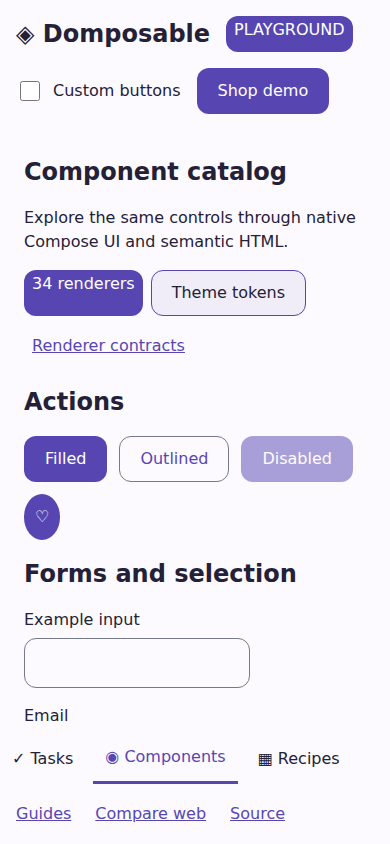
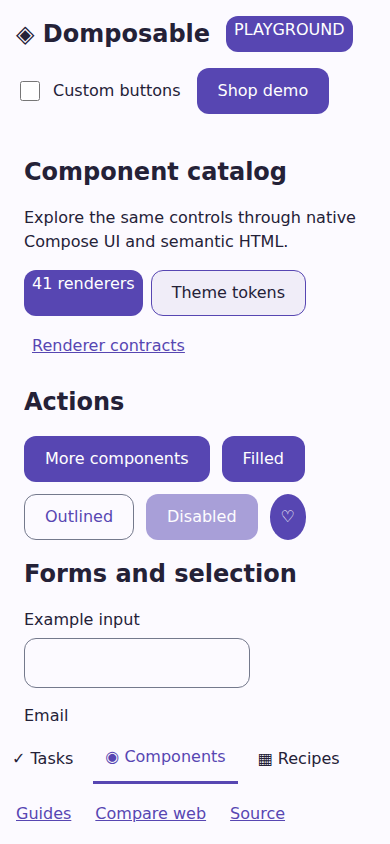
Review platform goldens and preserve native control labels

Changed region(s): [[0.0615, 0.4929, 0.9231, 0.6469], [0.0923, 0.3081, 0.1231, 0.3389]]

diff --git a/domposable-design-material/src/composeUiMain/kotlin/io/github/samuolis/domposable/material/NativeMaterial.kt b/domposable-design-material/src/composeUiMain/kotlin/io/github/samuolis/domposable/material/NativeMaterial.kt
@@ -67,11 +67,11 @@ import androidx.compose.ui.layout.ContentScale
 import androidx.compose.ui.platform.LocalUriHandler
 import androidx.compose.ui.semantics.LiveRegionMode
 import androidx.compose.ui.semantics.Role
+import androidx.compose.ui.semantics.clearAndSetSemantics
 import androidx.compose.ui.semantics.contentDescription
 import androidx.compose.ui.semantics.dialog
 import androidx.compose.ui.semantics.error
 import androidx.compose.ui.semantics.heading
-import androidx.compose.ui.semantics.hideFromAccessibility
 import androidx.compose.ui.semantics.liveRegion
 import androidx.compose.ui.semantics.onClick
 import androidx.compose.ui.semantics.role
@@ -464,14 +464,8 @@ actual fun rememberDomposableMaterialComponents(): DomposableComponents =
             icon = { props, modifier, _ ->
                 Text(
                     props.symbol,
-                    modifier.toComposeModifier().semantics {
-                        if (props.description !=
-                            null
-                        ) {
-                            contentDescription = props.description!!
-                        } else {
-                            hideFromAccessibility()
-                        }
+                    modifier.toComposeModifier().clearAndSetSemantics {
+                        props.description?.let { contentDescription = it }
                     },
                 )
             },

diff --git a/demo/src/jvmTest/kotlin/io/github/samuolis/domposable/demo/ExtendedComponentsTest.kt b/demo/src/jvmTest/kotlin/io/github/samuolis/domposable/demo/ExtendedComponentsTest.kt
@@ -1,5 +1,8 @@
 package io.github.samuolis.domposable.demo
 
+import androidx.compose.ui.semantics.SemanticsProperties
+import androidx.compose.ui.test.SemanticsMatcher
+import androidx.compose.ui.test.assert
 import androidx.compose.ui.test.assertIsNotEnabled
 import androidx.compose.ui.test.assertIsSelected
 import androidx.compose.ui.test.junit4.v2.createComposeRule
@@ -20,6 +23,12 @@ class ExtendedComponentsTest {
         compose.onNodeWithText("Express").performClick()
         compose.onNodeWithText("Office").performClick().assertIsSelected()
         compose.onNodeWithText("Deliver EXPRESS to Office").assertExists()
+        compose.onNodeWithContentDescription("Save preferences").assert(
+            SemanticsMatcher.keyNotDefined(SemanticsProperties.Text),
+        )
+        compose.onNodeWithContentDescription("About preferences").assert(
+            SemanticsMatcher.keyNotDefined(SemanticsProperties.Text),
+        )
         compose.onNodeWithContentDescription("Save preferences").performClick()
         compose.onNodeWithText("Preferences saved").assertExists()
         compose.onNodeWithText("Reset").performClick()

diff --git a/tests/browser/components.spec.ts b/tests/browser/components.spec.ts
@@ -36,6 +36,14 @@ test('range endpoints stay ordered and keyboard interaction updates the feature'
   await expect(maximum).toHaveValue('30');
   await expect(maximum).toHaveAttribute('aria-valuemin', '30');
   await expect(minimum).toHaveAttribute('aria-valuemax', '30');
+  // Repeated attempts to cross must stay clamped even when the app state is unchanged.
+  await maximum.press('Home');
+  await expect(maximum).toHaveValue('30');
+  await minimum.focus();
+  await minimum.press('End');
+  await expect(minimum).toHaveValue('30');
+  await minimum.press('End');
+  await expect(minimum).toHaveValue('30');
 });
 
 test('tooltip describes its control, opens with keyboard focus and dismisses with Escape', async ({ page }) => {

diff --git a/scripts/ci/export_examples.py b/scripts/ci/export_examples.py
@@ -12,6 +12,7 @@ for name, inputs in {
     'shop-web': [('dom/shop-phone.png','HTML · phone'),('dom/shop-wide.png','HTML · desktop')],
     'shop-native': [('android/shop.png','Android'),('ios/shop.png','iOS · tablet')],
     'components': [('android/catalog.png','Android components'),('dom/catalog-wide.png','Semantic HTML components')],
+    'selection-controls': [('android/extended-components.png','Android · selection and feedback'),('dom/extended-components.png','Semantic HTML · same feature')],
 }.items():
     images = [png((source/path).read_bytes()) for path,_ in inputs]
     (target/f'{name}.png').write_bytes(panel(images,[label for _,label in inputs]))

diff --git a/docs/components.md b/docs/components.md
@@ -51,6 +51,10 @@ DomposableRangeSlider(
 
 Select values must be unique and include the current value. Use an explicit placeholder option when no choice has been made. Native presents a Material dropdown; HTML emits a `<select>` with disabled options and preserves the app's controlled value. SegmentedButtons provides one selected choice with native selection semantics or an HTML radio group. A range has ordered, finite endpoints inside its bounds; `steps = 9` divides 0–100 into ten intervals. HTML displays two labelled browser sliders; native uses Material's two-thumb slider. Both thumbs remain independently accessible.
 
+![The same delivery preferences feature on Android and semantic HTML](assets/examples/selection-controls.png)
+
+Both previews run `ExtendedComponentCatalog()` from `commonMain`. The provider changes the controls' structure; the selected delivery, address, price range and callbacks come from the same feature. The [HTML/Wasm comparison](compare.md) lets you change the actual viewport width.
+
 ## Actions and help
 
 ```kotlin
@@ -64,6 +68,8 @@ DomposableLink("Help", "https://example.com/help")
 ```
 
 Tooltips provide supplemental descriptions. The control still needs its own accessible label. HTML shows help on hover or keyboard focus and supports Escape; native delegates hover/long-press behavior to Material. Link emits a browser anchor or opens the native URI handler. Navigation items with `href` preserve browser new-tab behavior while ordinary clicks call `onSelect`.
+
+Use `description = null` for a decorative Icon inside a labelled control. IconButton and FloatingActionButton take the control's accessible `label`; the decorative glyph does not become part of that name.
 
 ## Content and collections
 
@@ -141,4 +147,4 @@ The feature owns dismissal and application effects. HTML uses a modal dialog wit
 
 Every component has direct arguments and a `Props` overload. Keep props for renderer customization or reusable configuration; ordinary feature code can use the calls above. See [design-system customization](design-systems.md), [adaptive examples](adaptive.md) and [platform boundaries](coverage.md).
 
-The additional controls demo shares the same source for native, HTML and Wasm. These examples describe the 41-contract API introduced after 0.1.1; the published 0.1.1 provider has 34 contracts. Use the source checkout until the next minor version is published.
+The additional controls demo shares the same source for native, HTML and Wasm. The 0.1.x provider has 34 renderer contracts; the expanded provider described here has 41 and requires a minor-version upgrade. Check [release versions](https://github.com/samuolis/domposable/releases) when selecting Maven dependencies.

diff --git a/docs/migration.md b/docs/migration.md
@@ -12,7 +12,7 @@ Migrate one feature first. Verify semantics, focus/keyboard behavior and measure
 
 Feature code can replace `DomposableChip(DomposableChipProps(label, onClick, selected))` with `DomposableChip(label, onClick, selected = selected)`. Existing props overloads remain available. The demo and modular shop use direct calls throughout; props stay at custom renderer boundaries.
 
-The next minor release expands the provider from 34 to 41 required contracts. A provider built entirely by your application must implement `topAppBar`, `floatingActionButton`, `snackbar`, `select`, `segmentedButtons`, `rangeSlider` and `tooltip`. This changes the `DomposableComponents` constructor/copy ABI; rebuild consumers and update complete custom providers when upgrading. A provider copied from `rememberDomposableMaterialComponents()` inherits the new defaults. Component users do not need KSP.
+Upgrading from the 0.1.x provider expands it from 34 to 41 required contracts. A provider built entirely by your application must implement `topAppBar`, `floatingActionButton`, `snackbar`, `select`, `segmentedButtons`, `rangeSlider` and `tooltip`. This changes the `DomposableComponents` constructor, copy and generated destructuring ABI; rebuild consumers and update complete custom providers when upgrading. Access renderers by their named properties rather than destructuring the provider. A provider copied from `rememberDomposableMaterialComponents()` inherits the new defaults. Component users do not need KSP.
 
 | Native Compose | Shared call | HTML implementation |
 | --- | --- | --- |

diff --git a/docs/coverage.md b/docs/coverage.md
@@ -12,7 +12,7 @@
 | Overlays | Dialog, BottomSheet |
 | Architecture | Route registry, entry resources/saveables, optional Navigation 3, lifecycle and KSP |
 
-The next shared API has 41 renderer contracts; released 0.1.1 has 34. HTML uses native input elements, headings, landmarks, labeled dialog elements, tabs with keyboard navigation and focus restoration. Native providers use Compose UI/Material3 semantics. Browser accessibility checks run in Chromium, Firefox and WebKit. Native demo smoke tests run on an iOS simulator; shared rules are tested on JVM.
+The expanded shared API has 41 renderer contracts; the 0.1.x provider has 34. HTML uses native input elements, headings, landmarks, labeled dialog elements, tabs with keyboard navigation and focus restoration. Native providers use Compose UI/Material3 semantics. Browser accessibility checks run in Chromium, Firefox and WebKit. Native demo smoke tests run on an iOS simulator; shared rules are tested on JVM.
 
 HTML keyed collections currently render all items. Virtualized lists, rich text editors, drag/reorder, complex date pickers, fold/hinge APIs, platform camera/maps and product-specific widgets are outside the initial provider. Date/time HTML inputs use browser controls; native text fields currently expose text input for those purposes. Scrolling and sizing use each platform's layout model and are not pixel-identical.
 

diff --git a/docs/compare.md b/docs/compare.md
@@ -7,7 +7,7 @@ Both previews compile the same shared feature sources, theme tokens, application
 <label for="preview-width">Preview width</label>
 <select id="preview-width"><option value="390">Phone · 390 px</option><option value="768">Tablet · 768 px</option><option value="1440" selected>Wide · 1440 px</option></select>
 <label for="preview-route">Feature</label>
-<select id="preview-route"><option value="tasks">Tasks</option><option value="catalog">Components</option><option value="recipes">Navigation recipes</option><option value="shop">Fieldwork storefront</option><option value="shop/collection">Shop collection</option></select>
+<select id="preview-route"><option value="tasks">Tasks</option><option value="catalog">Components</option><option value="components">Selection and feedback</option><option value="recipes">Navigation recipes</option><option value="shop">Fieldwork storefront</option><option value="shop/collection">Shop collection</option></select>
 <div class="comparison">
   <section><h2>Semantic HTML · Kotlin/JS</h2><div class="preview-scroll"><iframe title="Domposable semantic HTML preview" src="../demo/#/tasks" loading="lazy"></iframe></div></section>
   <section><h2>Compose UI · Kotlin/Wasm</h2><div class="preview-scroll"><iframe title="Domposable Wasm preview" src="../wasm/#/tasks" loading="lazy"></iframe></div></section>
